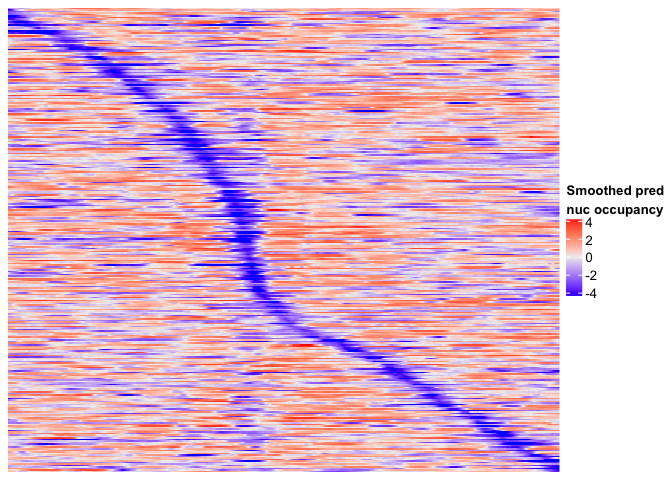
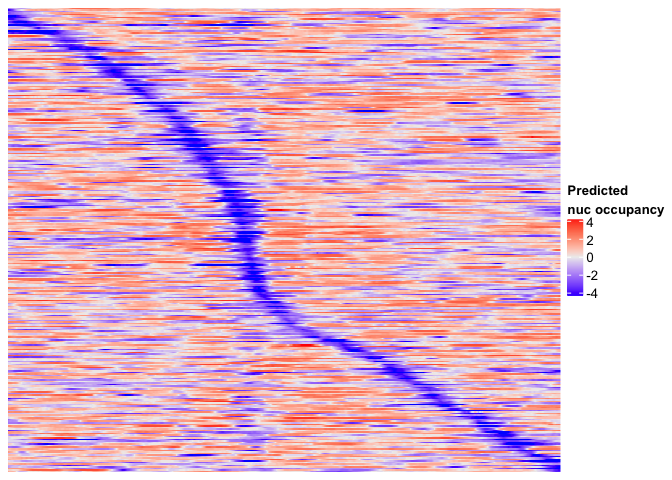
Renamed functions and fixed README.

Changed region(s): [[0.8125, 0.375, 1.0, 0.625], [0.8125, 0.9375, 0.8438, 0.9688]]

diff --git a/inst/example/chromWaveR_example.md b/inst/example/chromWaveR_example.md
@@ -7,18 +7,15 @@ Load ChromWave model
 ====================
 
 ``` r
+library(reticulate)
+use_condaenv(condaenv = 'keras', required = T)
 library(BSgenome.Scerevisiae.UCSC.sacCer3)
 library(TxDb.Scerevisiae.UCSC.sacCer3.sgdGene)
 library(genomation)
-
 library(tidyverse)
-
 library(ComplexHeatmap)
 library(cowplot)
 theme_set(theme_cowplot())
-
-library(reticulate)
-use_condaenv(condaenv = 'keras', required = T)
 library(kerasR)
 library(chromWaveR)
 
@@ -66,16 +63,16 @@ promoter.seqs <- oneHotEncode(promoter.seqs)
 # Predict nucleosome occupancy from one-hot encoded sequences
 promoter.preds <- model$predict(promoter.seqs)
 
-# Smooth nucleosome occupancy predictions before plotting
-promoter.smoothPreds <- smoothChromWavePreds(preds = promoter.preds,
-                                             model.name = 'invivo')
+# Transform predictions into nucleosome occupancy before plotting
+promoter.nucOccs <- transformPredictionsToOccupancies(preds = promoter.preds,
+                                                       model.name = 'invivo')
 
 # PLOT: Metaprofile of predicted nucleosome occupancy around yeast TSSs
-promoter.smoothPreds[[1]] %>%
+promoter.nucOccs[[1]] %>%
   as.data.frame  %>% tbl_df %>%
   mutate(peak_id = 1:length(V1),
          strand = as.character(strand(saccer.promoters))) %>%
-  gather(pos, score, 1:ncol(promoter.smoothPreds[[1]])) %>%
+  gather(pos, score, 1:ncol(promoter.nucOccs[[1]])) %>%
   mutate(pos = as.numeric(gsub('V', '', pos))) %>%
   group_by(strand, pos) %>%
   summarise(mean_score = mean(score), sd_score = sd(score)) %>%
@@ -90,11 +87,11 @@ promoter.smoothPreds[[1]] %>%
 ``` r
 # PLOT: Heatmap of predicted nucleosome occupancies around yeast TSS
 # sorted by distance of NFR to annotated TSS
-i.sorted <- apply(promoter.smoothPreds[[1]], 1, which.min) %>% order
-Heatmap(promoter.smoothPreds[[1]][i.sorted,],
+i.sorted <- apply(promoter.nucOccs[[1]], 1, which.min) %>% order
+Heatmap(promoter.nucOccs[[1]][i.sorted,],
         show_column_names = F, show_row_names = F,
         cluster_columns = F, cluster_rows = F,
-        name = 'Smoothed pred\nnuc occupancy')
+        name = 'Predicted\nnuc occupancy')
 ```
 
 ![](chromWaveR_example_files/figure-markdown_github/chunk_chromwaver_promoterPred-2.png)
@@ -121,25 +118,25 @@ genome.seqs <- oneHotEncode(genome.seqs)
 # Predict nucleosome occupancy for forward and reverse strand of chr15
 genome.preds <- model$predict(genome.seqs)
 
-# Smooth nucleosome occupancy predictions
-genome.smoothPreds <- smoothChromWavePreds(preds = genome.preds,
-                                           model.name = 'invitro')
+# Transform predictions to nucleosome occupancies
+genome.nucOccs <- transformPredictionsToOccupancies(preds = genome.preds,
+                                                    model.name = 'invitro')
 
-# Split chrs into tiles of width 1 and assign smoothed nuc prediction
+# Split chrs into tiles of width 1 and assign nuc prediction
 plus.tiles <- tile(saccer.genome, width = 1)[[1]]
 strand(plus.tiles) <- '+'
-plus.tiles$score <- genome.smoothPreds[[1]][1,]
+plus.tiles$score <- genome.nucOccs[[1]][1,]
 
 minus.tiles <- plus.tiles
 strand(minus.tiles) <- '-'
-minus.tiles$score <- genome.smoothPreds[[1]][2,]
+minus.tiles$score <- genome.nucOccs[[1]][2,]
 
 # Combine fwd and rev strand chr15 tiles
 chr.tiles <- c(plus.tiles, minus.tiles) %>% sort
 rm(plus.tiles, minus.tiles)
 
 # Compute a score matrix for +/-1kb around annotated yeast TSSs from
-# smoothed nuc predictions
+# nuc occuoancy predictions
 score.matrix <- ScoreMatrixBin(target = chr.tiles,
                                windows = saccer.promoters,
                                bin.num = unique(width(saccer.promoters)),
@@ -174,7 +171,7 @@ nucStrand.heatmaps <- lapply(c('+', '-'), function(s) {
   Heatmap(strand.matrix[i.sorted,],
           show_column_names = F, show_row_names = F,
           cluster_columns = F, cluster_rows = F,
-          name = 'Smoothed pred\nnuc occupancy')
+          name = 'Predicted \nnuc occupancy')
 })
 nucStrand.heatmaps[[1]]
 ```

diff --git a/README.md b/README.md
@@ -30,13 +30,20 @@
 
 * Install following R packages from CRAN: 
     ```R 
-    install.packages('tidyverse', 'reticulate', 'kerasR')
+    install.packages(c('tidyverse', 'reticulate', 'kerasR'))
+    ``` 
+
+* Install following R packages from Bioconductor: 
+    ```R 
+    install.packages(c('tidyverse', 'reticulate', 'kerasR'))
     ``` 
 
 * Install chromWaveR:
     ```R 
-    install.packages('devtools')
-    devtools::install_github('luslab/chromWaveR')
+    if (!requireNamespace("BiocManager", quietly = TRUE))
+        install.packages("BiocManager")
+    
+    BiocManager::install("Biostrings")
     ``` 
 
 ## Tutorial  
